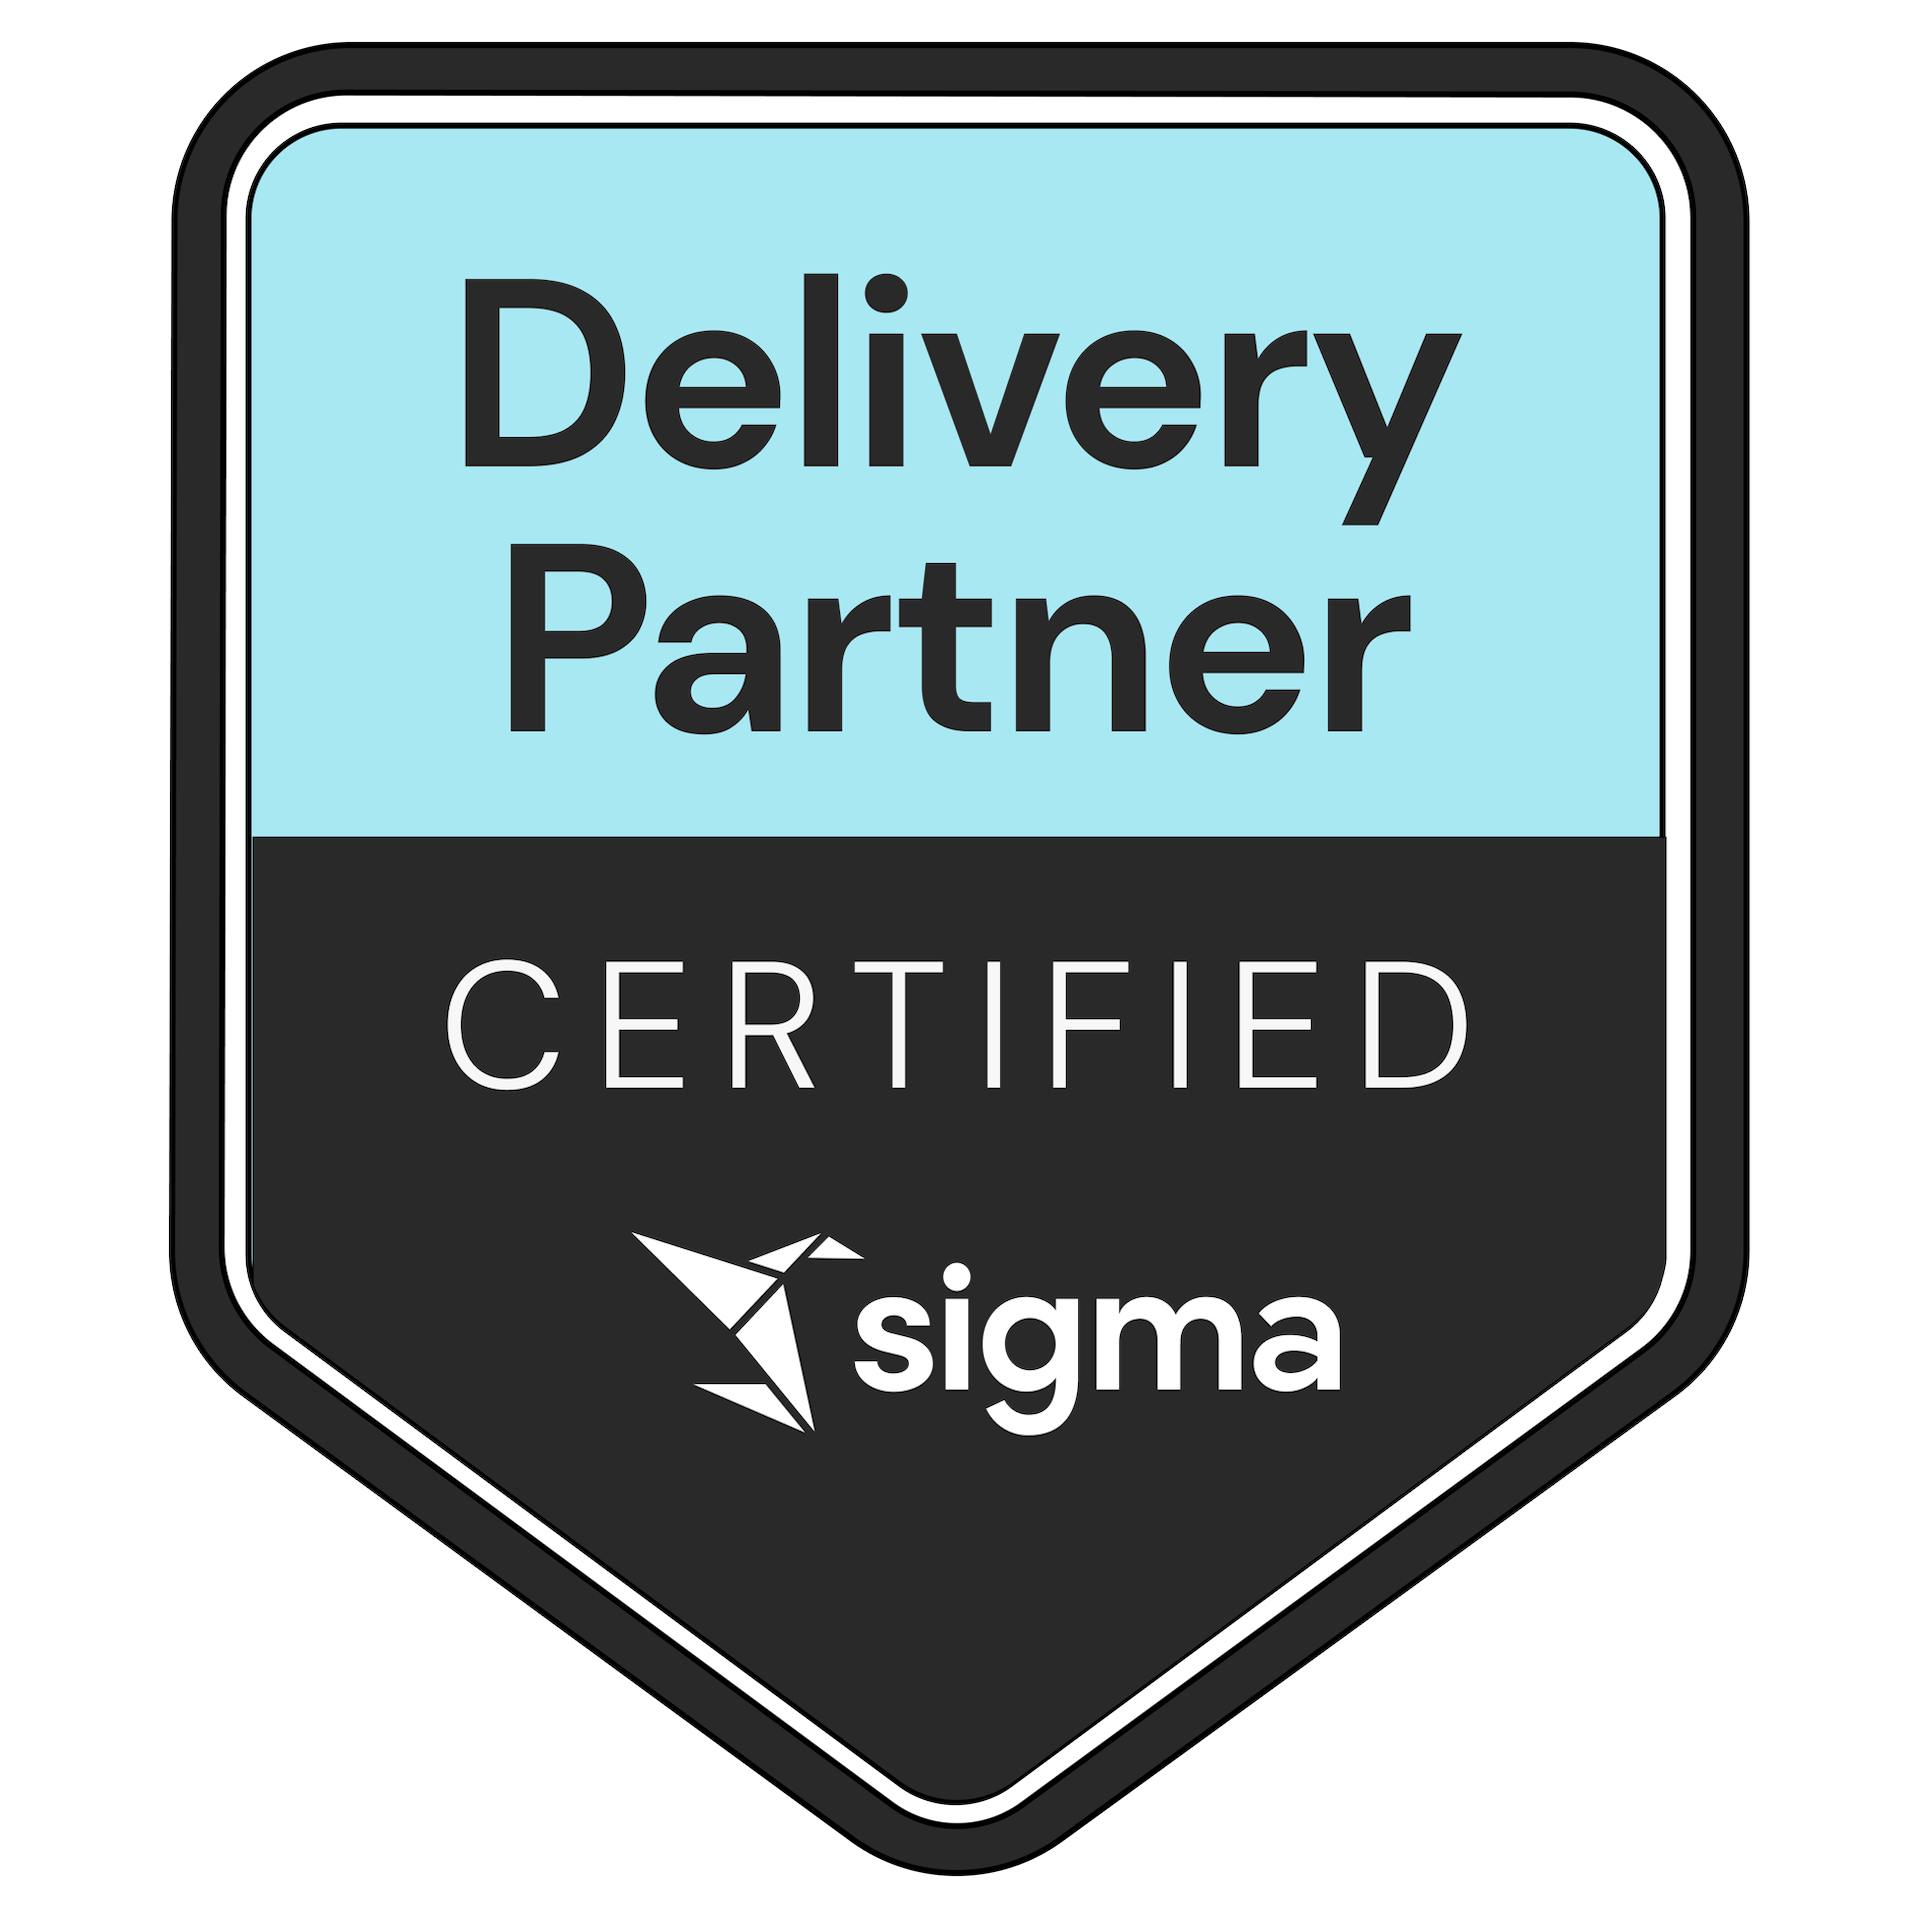
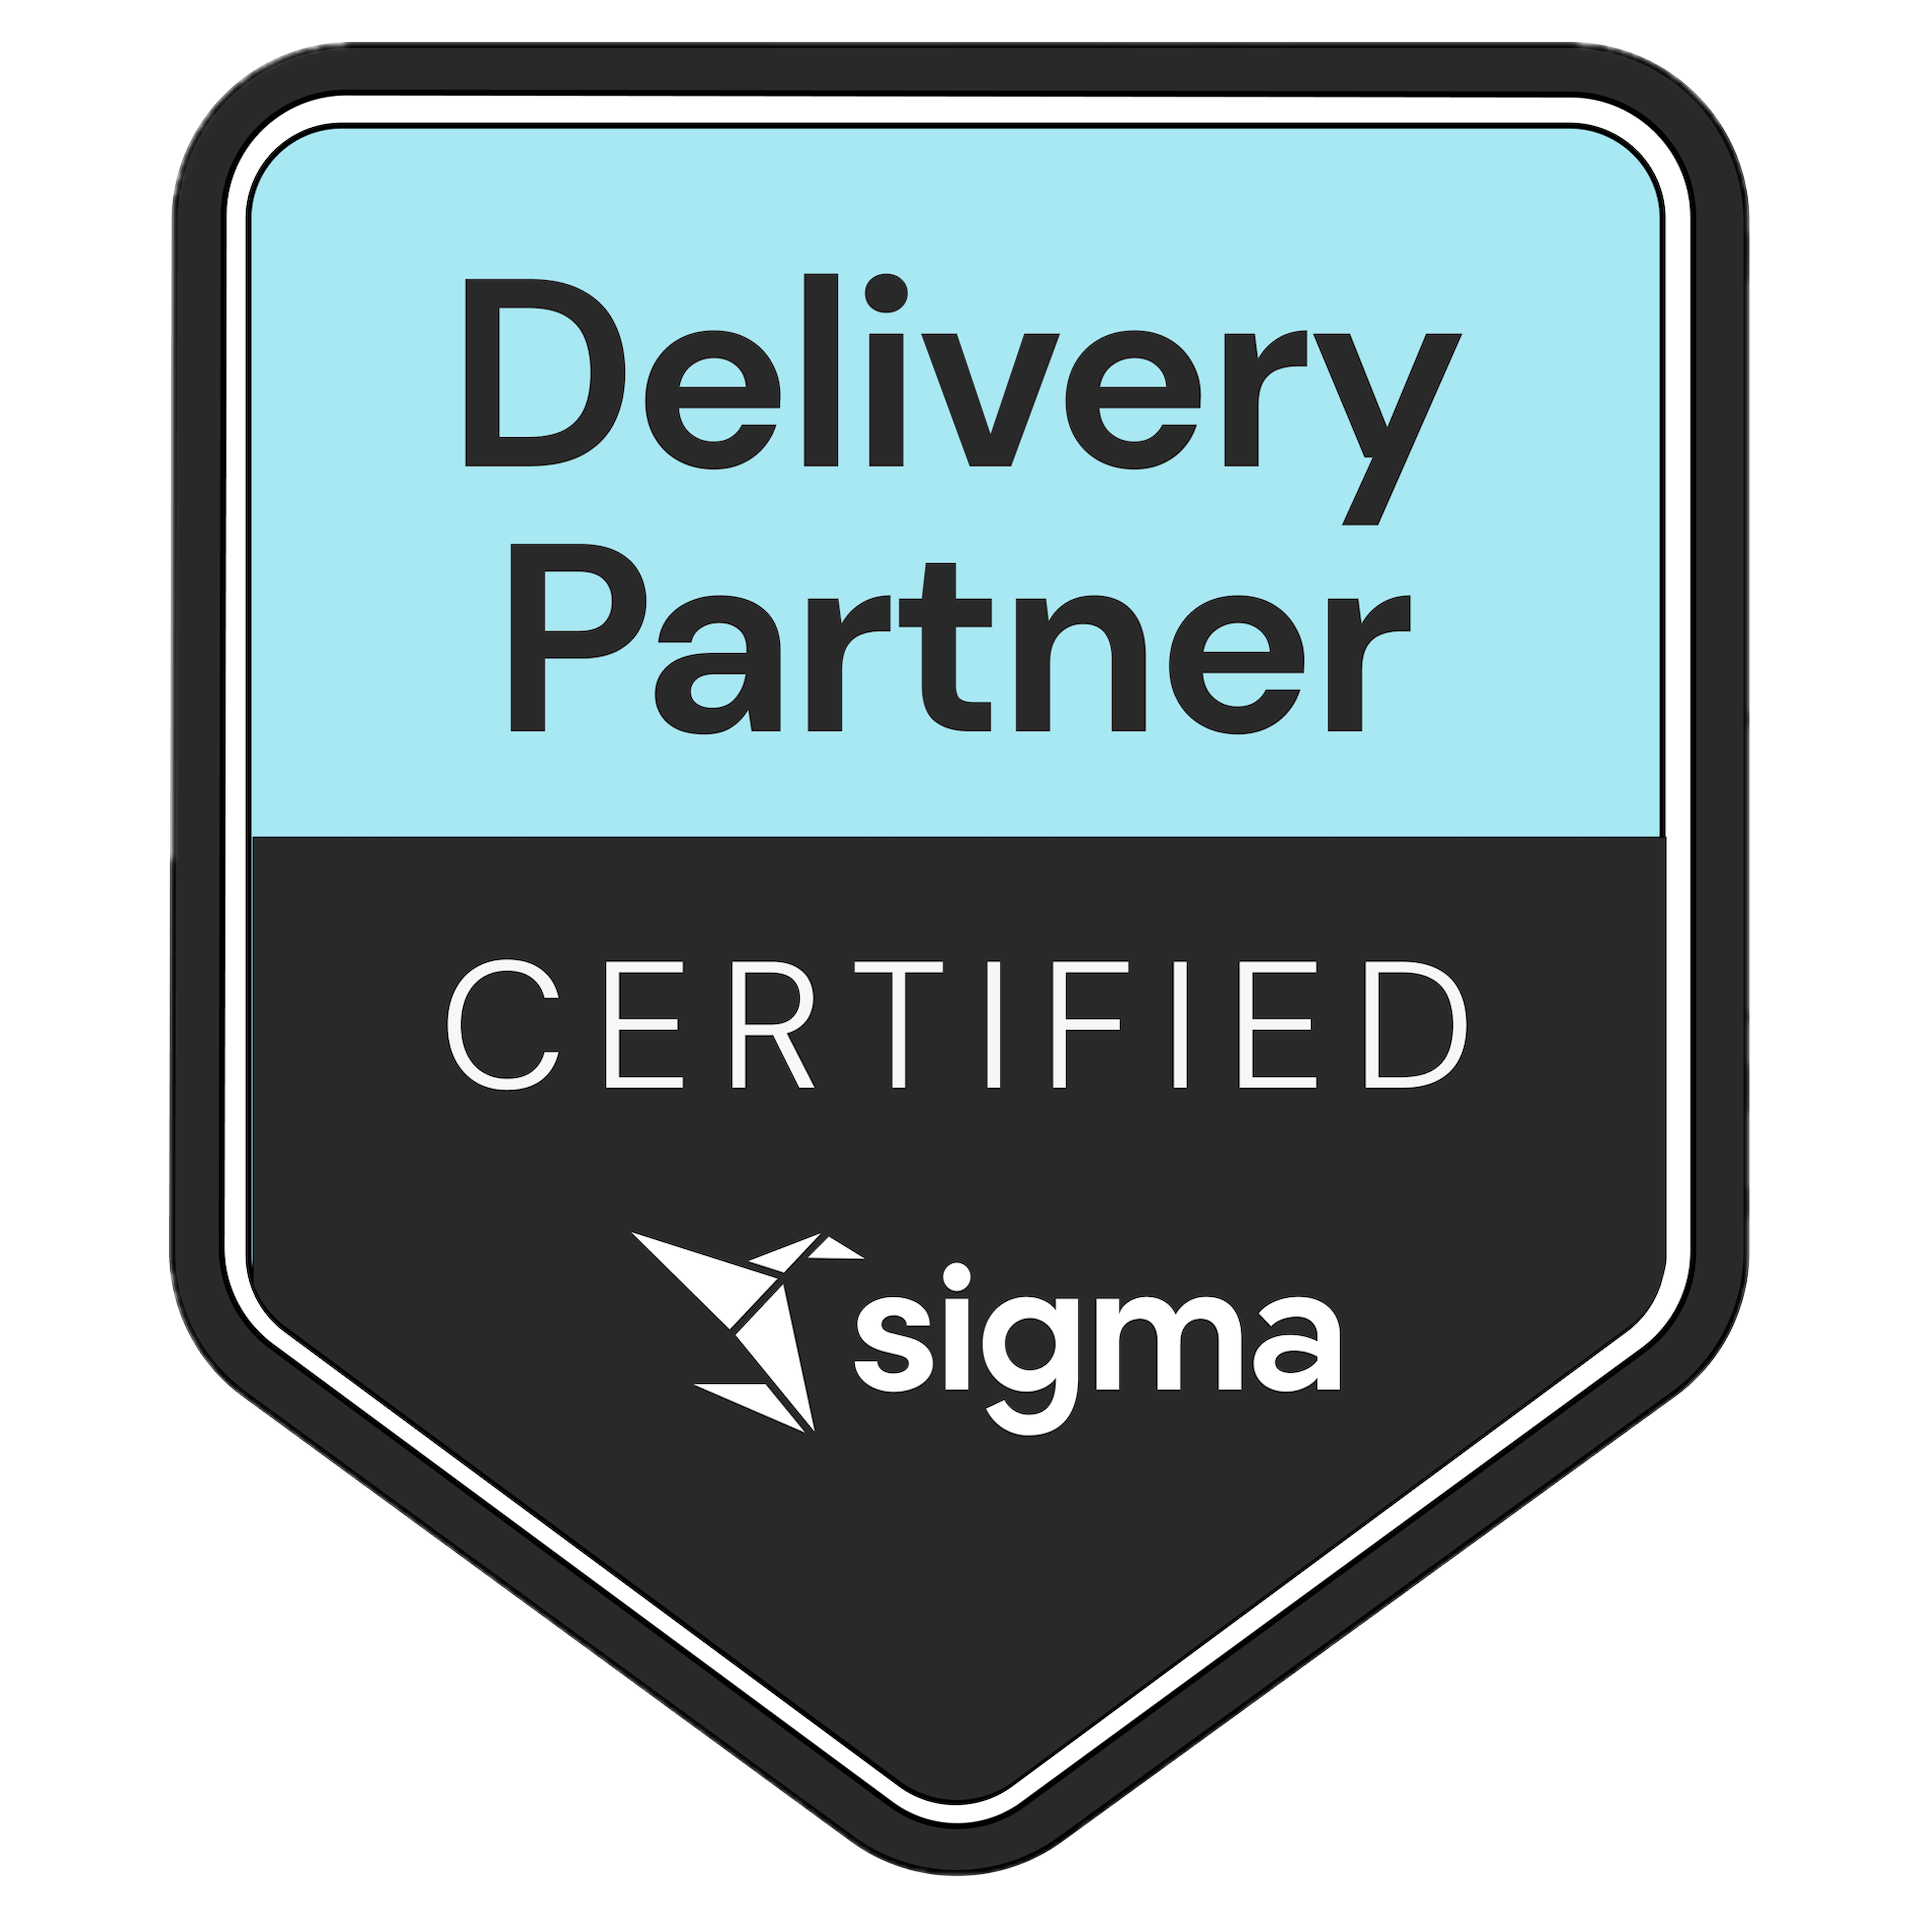
Update cert badges with cleaned transparent versions

diff --git a/src/components/Certifications.jsx b/src/components/Certifications.jsx
@@ -17,7 +17,7 @@ const certs = [
     issuer: 'Snowflake',
     status: 'earned',
     dates: 'Feb 2024 — Feb 2026',
-    badgeImage: '/badge-snowpro-core.png',
+    badgeImage: '/badge-snowpro-core.webp',
     description: 'Demonstrates core competency in Snowflake data platform architecture, data loading, performance optimization, and security.',
     url: 'https://achieve.snowflake.com/568f9192-36ba-4544-b768-9738e24aeeaf',
   },
